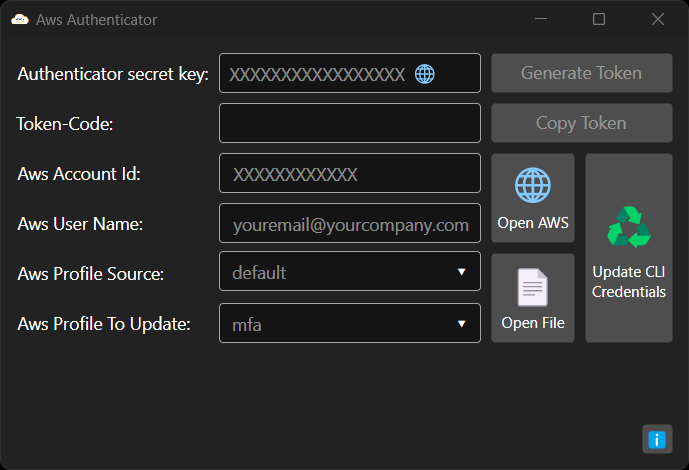
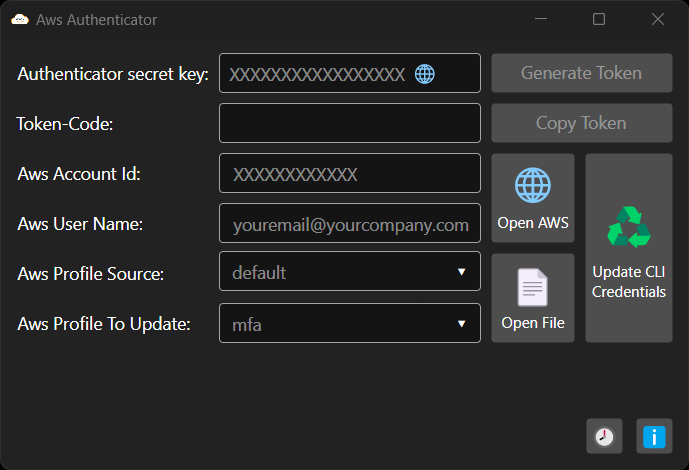
Add button to add to Windows TaskScheduler.

Changed region(s): [[0.8534, 0.8936, 0.9753, 0.983]]

diff --git a/src/AwsAuthenticator.UI/ViewModels/AwsAuthenticatorViewModel.cs b/src/AwsAuthenticator.UI/ViewModels/AwsAuthenticatorViewModel.cs
@@ -1,14 +1,13 @@
 using System.Reactive;
 using ReactiveUI;
 using Splat;
-using System.DirectoryServices.AccountManagement;
-
 
 namespace AwsAuthenticator.ViewModels;
 
 public class AwsAuthenticatorViewModel : BaseViewModel
 {
 	private readonly IAwsAuthenticator _awsAuthenticator;
+	private readonly ITaskSchedulerService _taskSchedulerService;
 	private readonly AppSettingsWriter _appSettingsWriter;
 
 	#region Properties
@@ -102,15 +101,18 @@ public class AwsAuthenticatorViewModel : BaseViewModel
 
 	public AwsAuthenticatorViewModel(
 		 IAwsAuthenticator? awsAuthenticator
+		, ITaskSchedulerService? taskSchedulerService = null
 		,AppSettingsWriter? appSettingsWriter = null
 		,AwsSettings? awsSettings = null
 	)
 	{
 		_awsAuthenticator = awsAuthenticator ?? Splat.Locator.Current.GetService<IAwsAuthenticator>();
+		_taskSchedulerService = taskSchedulerService ?? Splat.Locator.Current.GetService<ITaskSchedulerService>();
 		_appSettingsWriter = appSettingsWriter ?? Splat.Locator.Current.GetService<AppSettingsWriter>();
 		awsSettings = awsSettings ?? Splat.Locator.Current.GetService<AwsSettings>();
 
 		//_awsAuthenticator = awsAuthenticator ?? new Core.AwsAuthenticator();
+		//_taskSchedulerService = taskSchedulerService ?? new Core.TaskSchedulerService();
 		//_appSettingsWriter = appSettingsWriter ?? new AppSettingsWriter();
 
 		AwsAccountId = awsSettings?.AccountId ?? "";
@@ -245,6 +247,11 @@ public class AwsAuthenticatorViewModel : BaseViewModel
 			_awsAuthenticator.UpdateAwsAccount(AwsAccountId, AwsUserName, AwsTokenCode, AwsProfileSource, profileToEdit);
 			Logs = $"Updated credentials successfully at {DateTime.Now.ToString(DATE_FORMAT)}.";
 		});
+	}
+
+	public async Task AddToTaskSchedulerCommand()
+	{
+		_taskSchedulerService?.AddDailyTask();
 	}
 
 	public void OpenAwsCredentialsFileCommand()

diff --git a/src/AwsAuthenticator.Core/Services/TaskSchedulerService.cs b/src/AwsAuthenticator.Core/Services/TaskSchedulerService.cs
@@ -1,0 +1,42 @@
+using Microsoft.Win32.TaskScheduler;
+
+namespace AwsAuthenticator.Core.Services;
+
+public interface ITaskSchedulerService {
+	public void AddDailyTask();
+}
+
+public class TaskSchedulerService : ITaskSchedulerService
+{
+	public void AddDailyTask()
+	{
+		// Running twice is idempotent, it overrides any task that has the same task name.
+		// https://stackoverflow.com/questions/7394806/creating-scheduled-tasks
+		// https://github.com/dahall/taskscheduler
+		using TaskService taskService = new();
+
+		TaskDefinition task = taskService.NewTask();
+		task.RegistrationInfo.Description = "AwsAuthenticator-AutoTask";
+
+		task.Triggers.Add(new DailyTrigger {
+			DaysInterval = 1,
+			StartBoundary = new DateTime(2021, 1, 1, 8, 30, 0),
+			ExecutionTimeLimit = TimeSpan.FromMinutes(2),
+		});
+
+		task.Triggers.Add(new DailyTrigger {
+			DaysInterval = 1,
+			StartBoundary = new DateTime(2021, 1, 1, 20, 30, 0),
+			ExecutionTimeLimit = TimeSpan.FromMinutes(2),
+		});
+
+		var appPath = CurrentApp.GetLocation();
+		task.Actions.Add(new ExecAction(appPath, "-UpdateCreds", null));
+		task.Settings.AllowDemandStart = true;
+		task.Settings.StartWhenAvailable = true;
+
+		var taskName = "AwsAuthenticator-AutoTask";
+		taskService.RootFolder.RegisterTaskDefinition(taskName, task);
+		//ts.RootFolder.DeleteTask(taskName);
+	}
+}

diff --git a/src/AwsAuthenticator.UI/Program.cs b/src/AwsAuthenticator.UI/Program.cs
@@ -160,6 +160,7 @@ public class Program
 		services.Register<AppSettings>(() => config.Get<AppSettings>() ?? new AppSettings());
 		services.Register<AppSettingsWriter>(() => new AppSettingsWriter());
 		services.Register<IAwsCredentialUpdater>(() => new Core.Services.AwsCredentialUpdaterCmd());
+		services.Register<ITaskSchedulerService>(() => new Core.Services.TaskSchedulerService());
 		services.Register<IAwsAuthenticator>(() => new Core.Services.AwsAuthenticator());
 		services.Register<AwsSettings>(() => appSettings.Aws);
 		services.Register<AwsAuthenticatorViewModel>(() => new AwsAuthenticatorViewModel());

diff --git a/src/AwsAuthenticator.Core/Services/AwsAuthenticator.cs b/src/AwsAuthenticator.Core/Services/AwsAuthenticator.cs
@@ -2,6 +2,14 @@
 
 namespace AwsAuthenticator.Core.Services;
 
+public interface IAwsAuthenticator
+{
+	void OpenAwsCredentialsFile();
+	void UpdateAwsAccount(string awsAccountId, string awsPersonalAccountName, string tokenCode, string awsProfileSource, string awsProfileToEdit);
+	string AwsGetCurrentUserProfile(); // TODO: remove this method from this interface.
+	List<string> GetAwsLocalProfileList();
+}
+
 public class AwsAuthenticator : IAwsAuthenticator
 {
 	// Each MFA provider may use different key lengths.

diff --git a/docs/DevelopersGuide.md b/docs/DevelopersGuide.md
@@ -21,7 +21,6 @@ dotnet new maui
 
 ## Future work
 - Show how long since last updated AWS credentials, monitor the file.
-- Add a button to configure the automatic run of this program from Windows Tasks.
 - Show the countdown timer displaying until when the token is valid (not currently supported by the MFA NuGet library).  
   The countdown is 30 secs, tokens are created at the beginning of each minute from .00 to .30 secs, and from .30 to .00 secs.
   A timer can be implemented to auto-renovate the token at the correct time.
